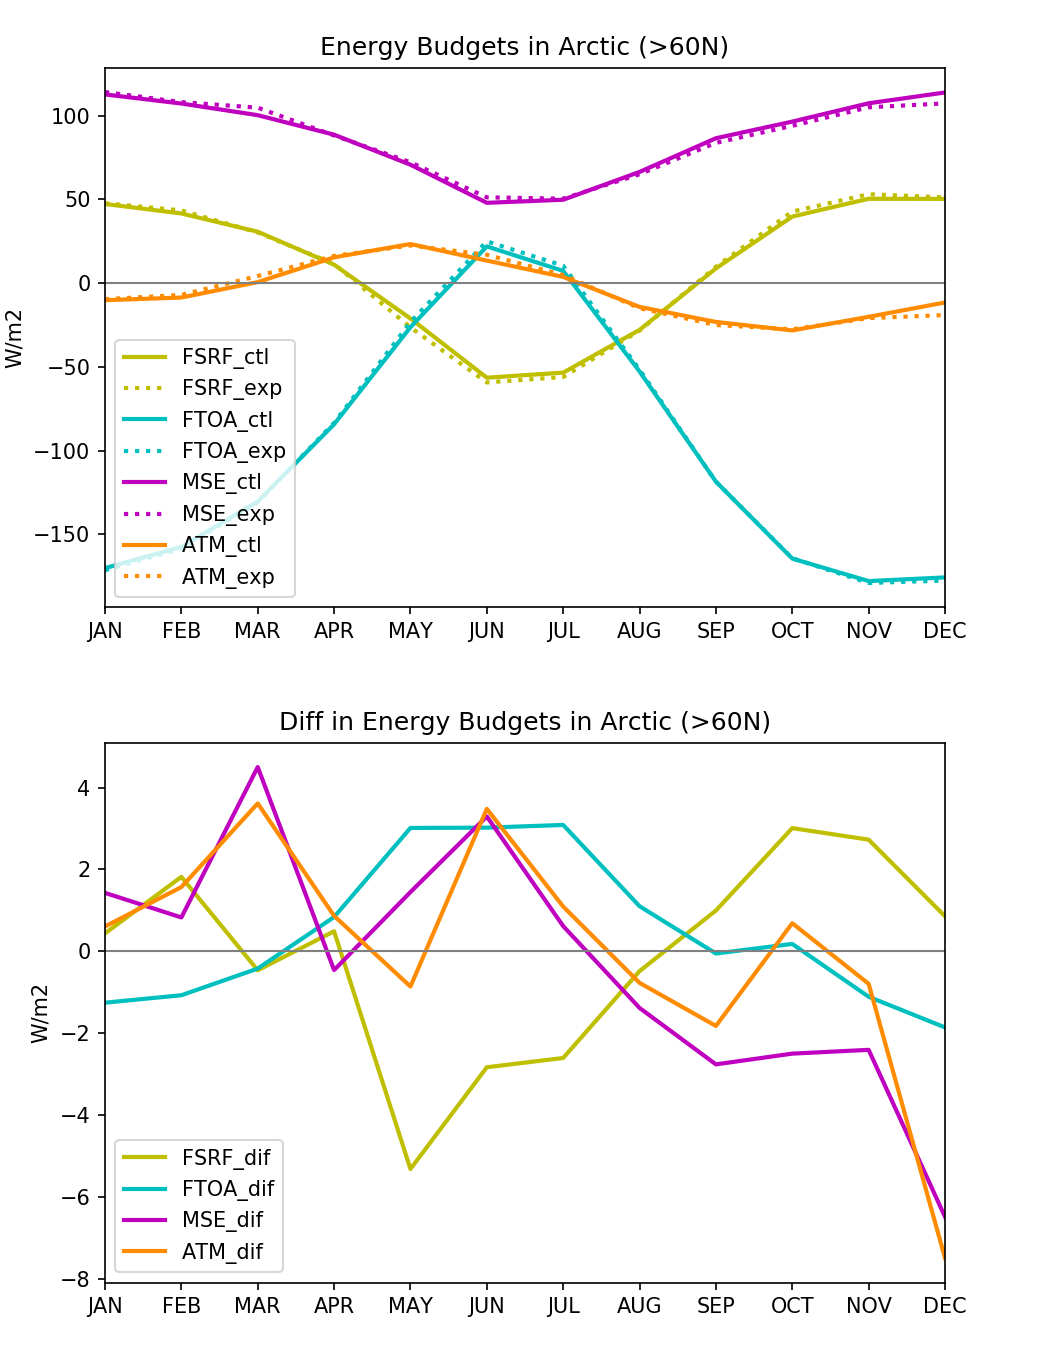
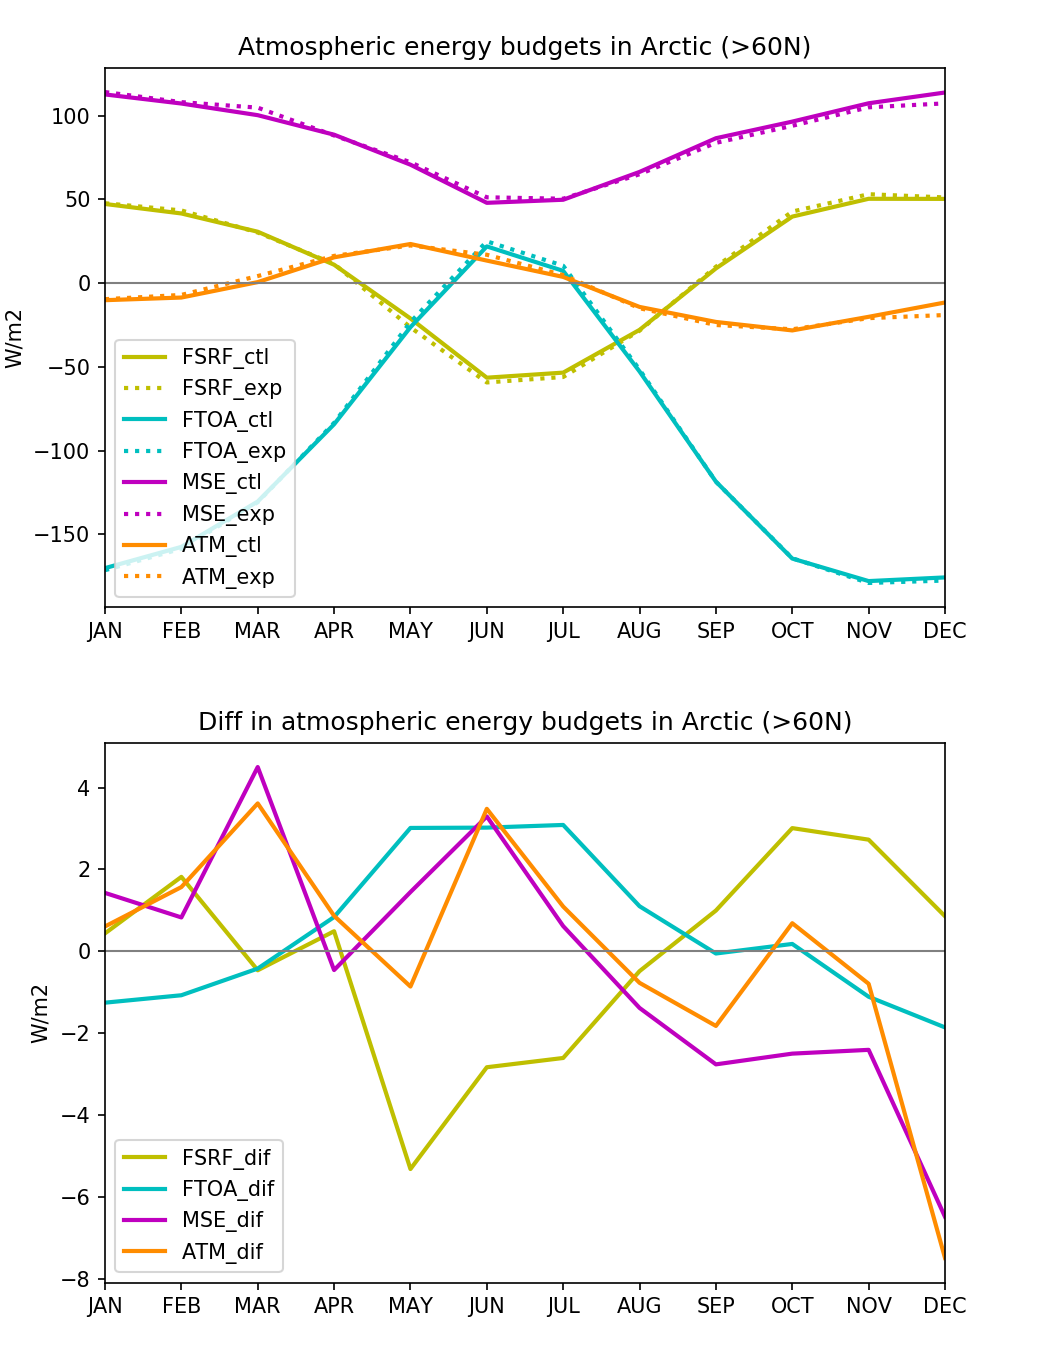
use lat limitation automatically in d12 titles

Changed region(s): [[0.1829, 0.5289, 0.8229, 0.56], [0.2438, 0.0311, 0.7619, 0.0622]]

diff --git a/d12_time_series_12month_model_vs_model.py b/d12_time_series_12month_model_vs_model.py
@@ -58,7 +58,8 @@ def time_series_12month_model_vs_model():
         nlon=lon[:].size
     
      #Arctic area mean 
-        latbound1=np.min(np.where(lat[:]>60))
+        latlim=70.  #region limitation for latitude
+        latbound1=np.min(np.where(lat[:]>latlim))
         latbound2=nlat
      #Antarctic area mean 
         #latbound1=0
@@ -140,7 +141,7 @@ def time_series_12month_model_vs_model():
     ax1.set_xticklabels(xlabels)
     ax1.set_ylabel("W/m2")
     ax1.legend(loc="best")
-    ax1.set_title("Energy Budgets in Arctic (>60N)",fontsize=12,c="k")
+    ax1.set_title("Atmospheric energy budgets in Arctic (>"+str(int(latlim))+"N)",fontsize=12,c="k")
 
     line_FSRF_dif=ax2.plot(xlocs,FSRF_dif,ls="-",lw=2,label="FSRF_dif",c="y")
     line_FTOA_dif=ax2.plot(xlocs,FTOA_dif,ls="-",lw=2,label="FTOA_dif",c="c")
@@ -152,9 +153,9 @@ def time_series_12month_model_vs_model():
     ax2.set_xticklabels(xlabels)
     ax2.set_ylabel("W/m2")
     ax2.legend(loc="best")
-    ax2.set_title("Diff in Energy Budgets in Arctic (>60N)",fontsize=12,c="k")
+    ax2.set_title("Diff in atmospheric energy budgets in Arctic (>"+str(int(latlim))+"N)",fontsize=12,c="k")
     
-    fig.savefig("./workdir/others/time_series_12month_energybudget_arctic_60N.png",dpi=150)
+    fig.savefig("./workdir/others/time_series_12month_energybudget_arctic_"+str(int(latlim))+"N.png",dpi=150)
     show()
 
     #print(MSE_ctl)
